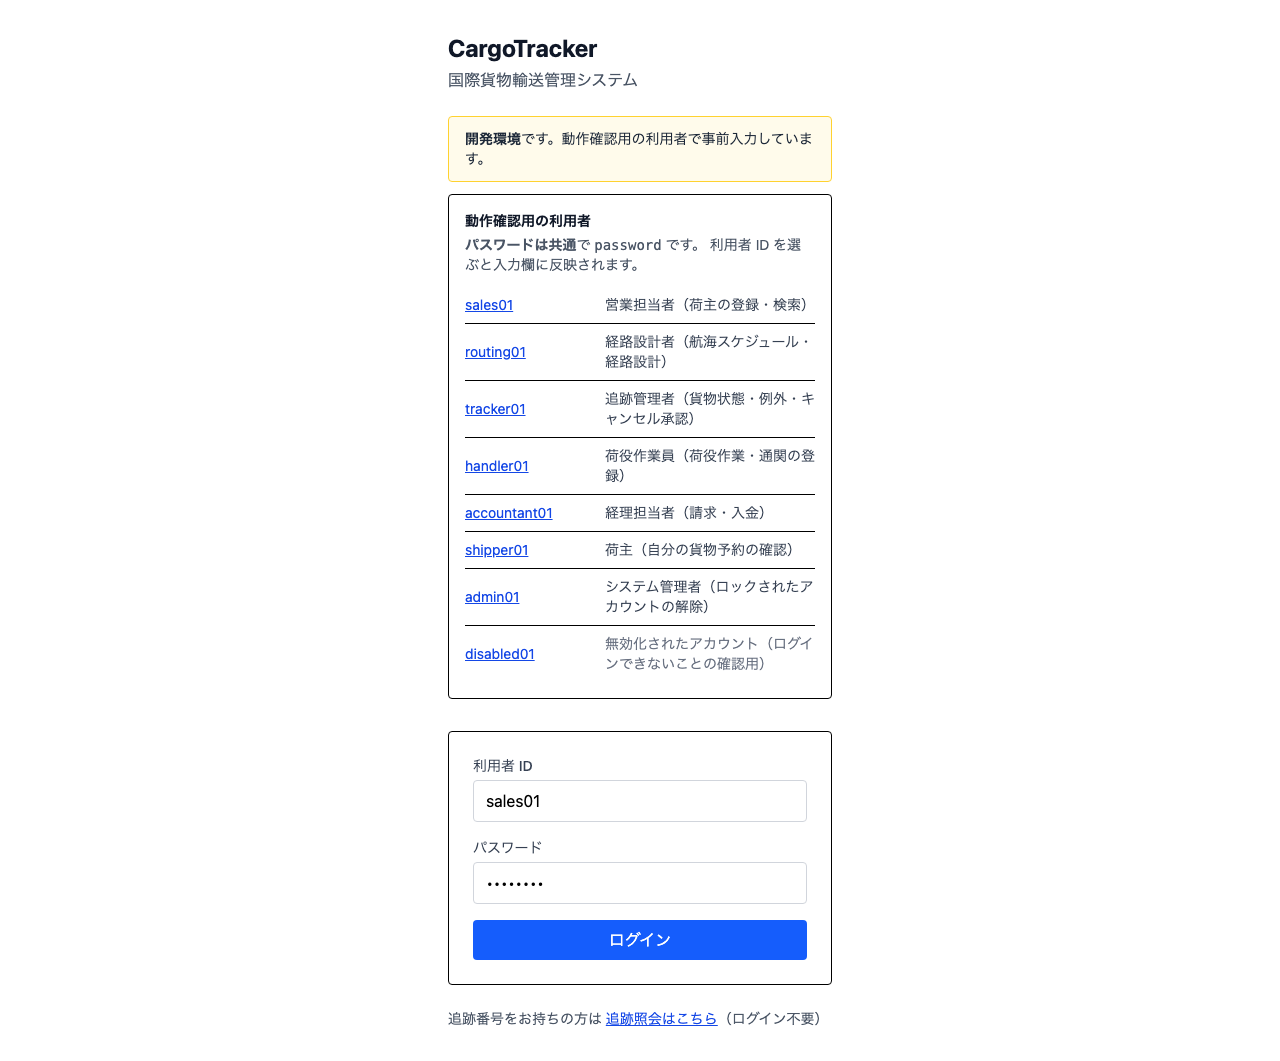
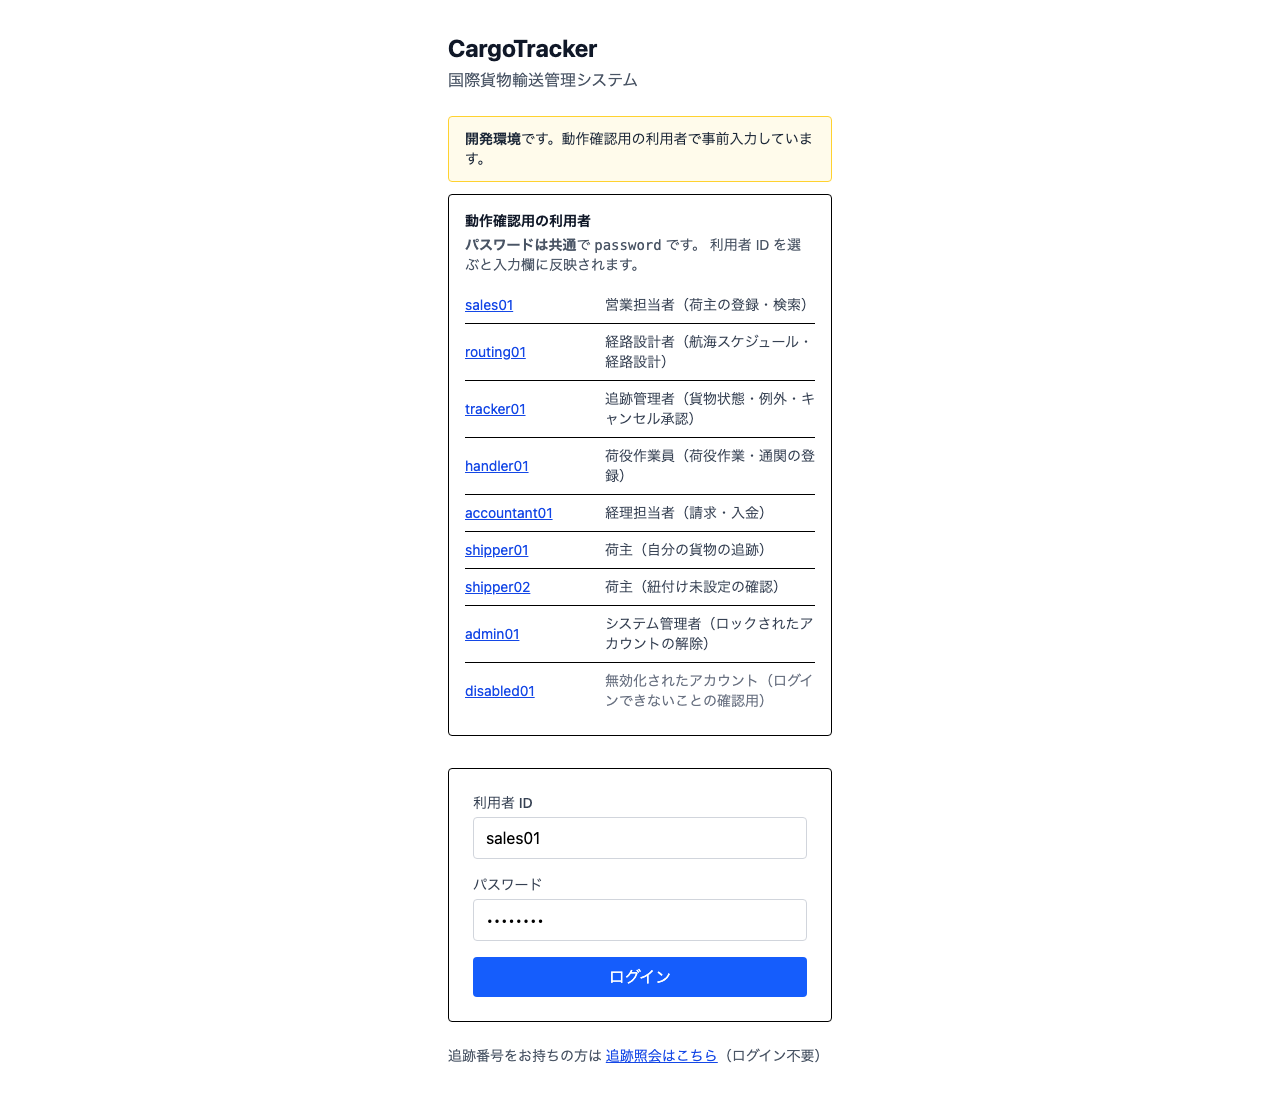
docs(manual): 荷主ポータルの手順とキャプチャを追加

Changed region(s): [[0.3438, 0.0311, 0.6562, 0.6532], [0.3438, 0.7154, 0.6562, 0.9953]]

diff --git a/apps/frontend/e2e/manual/manual-screenshots.spec.ts b/apps/frontend/e2e/manual/manual-screenshots.spec.ts
@@ -382,6 +382,53 @@ test('09-open-exceptions（未解決の例外一覧）', async ({ page }) => {
   await page.screenshot({ path: `${ASSETS}/09-open-exceptions.png`, fullPage: true })
 })
 
+test('14-shipper-dashboard（荷主ダッシュボード）', async ({ page }) => {
+  await login(page, 'shipper01')
+  await expect(page.getByRole('heading', { name: '荷主ダッシュボード' })).toBeVisible()
+  await expect(page.getByRole('link', { name: '自分の貨物を見る' })).toBeVisible()
+
+  await page.screenshot({ path: `${ASSETS}/14-shipper-dashboard.png`, fullPage: true })
+})
+
+test('14-shipper-tracking-list（自分の貨物一覧）', async ({ page }) => {
+  await login(page, 'shipper01')
+  await page.goto('/shipper/tracking')
+  await expect(page.getByRole('heading', { name: '自分の貨物' })).toBeVisible()
+  await expect(page.getByRole('link', { name: 'TRK-20260823-0001' })).toBeVisible()
+
+  await page.screenshot({ path: `${ASSETS}/14-shipper-tracking-list.png`, fullPage: true })
+})
+
+test('14-shipper-tracking-detail（自分の貨物詳細）', async ({ page }) => {
+  await login(page, 'shipper01')
+  await page.goto('/shipper/tracking/TRK-20260823-0001')
+  await expect(page.getByRole('heading', { name: 'TRK-20260823-0001' })).toBeVisible()
+  await expect(page.getByRole('heading', { name: 'これまでの経過' })).toBeVisible()
+
+  await page.screenshot({ path: `${ASSETS}/14-shipper-tracking-detail.png`, fullPage: true })
+})
+
+test('14-shipper-unlinked（荷主との紐付けなし）', async ({ page }) => {
+  await login(page, 'shipper02')
+  await page.goto('/shipper/tracking')
+  await expect(page.getByText('荷主との紐付けがありません')).toBeVisible()
+  await expect(page.getByText(/営業担当またはシステム管理者/)).toBeVisible()
+
+  await page.screenshot({ path: `${ASSETS}/14-shipper-unlinked.png`, fullPage: true })
+})
+
+test('14-shipper-timeout-warning（無操作タイムアウト警告）', async ({ page }) => {
+  await page.clock.install()
+  await login(page, 'shipper01')
+  await page.goto('/shipper/tracking')
+  await expect(page.getByRole('heading', { name: '自分の貨物' })).toBeVisible()
+
+  await page.clock.fastForward(15 * 60 * 1000)
+  await expect(page.getByRole('alert')).toContainText('まもなく自動ログアウトします')
+
+  await page.screenshot({ path: `${ASSETS}/14-shipper-timeout-warning.png`, fullPage: true })
+})
+
 test('10-customs-new（通関申告の登録）', async ({ page }) => {
   await login(page, 'handler01')
   await page.getByRole('link', { name: '通関管理' }).click()

diff --git a/apps/frontend/src/mocks/handlers/tracking.ts b/apps/frontend/src/mocks/handlers/tracking.ts
@@ -387,20 +387,38 @@ export function forceLookupThrottle() {
   lookupCount = LOOKUP_LIMIT_PER_WINDOW;
 }
 
+function currentUserId(request: Request) {
+  const authorization = request.headers.get("authorization") ?? "";
+  if (!authorization.startsWith("Bearer mock-token-")) {
+    return "shipper01";
+  }
+  return authorization.slice("Bearer mock-token-".length);
+}
+
 export const trackingHandlers = [
-  http.get(API_PATHS.shipperTracking, () =>
-    HttpResponse.json({
+  http.get(API_PATHS.shipperTracking, ({ request }) => {
+    const userId = currentUserId(request);
+    if (userId !== "shipper01") {
+      return HttpResponse.json({
+        linked: false,
+        contactMessage: "営業担当またはシステム管理者へ紐付けを依頼してください。",
+        cargos: [],
+      });
+    }
+
+    return HttpResponse.json({
       linked: true,
       contactMessage: null,
       cargos: trackings
-        .filter((tracking) => tracking.shipperLinkId === "shipper01")
+        .filter((tracking) => tracking.shipperLinkId === userId)
         .map(shipperSummaryView),
-    }),
-  ),
+    });
+  }),
 
-  http.get(`${API_PATHS.shipperTracking}/:trackingNumber`, ({ params }) => {
+  http.get(`${API_PATHS.shipperTracking}/:trackingNumber`, ({ params, request }) => {
+    const userId = currentUserId(request);
     const tracking = find(String(params.trackingNumber));
-    if (tracking === undefined || tracking.shipperLinkId !== "shipper01") {
+    if (tracking === undefined || tracking.shipperLinkId !== userId) {
       return HttpResponse.json(
         { message: "自社の貨物として確認できません" },
         { status: 404 },

diff --git a/apps/frontend/src/config/navigation.ts b/apps/frontend/src/config/navigation.ts
@@ -34,8 +34,8 @@ export const NAVIGATION: NavigationItem[] = [
     roles: ["ROLE_SALES"],
     available: true,
   },
-  // 予約管理は ROLE_SHIPPER には開かない（ADR-008）。利用者と荷主を結ぶキーが無く
-  // 「自分の予約だけ」に絞り込めなかったため、開くと全荷主の予約が見える。
+  // 予約管理は ROLE_SHIPPER には開かない（ADR-008）。US33 で利用者と荷主は紐付いたが、
+  // 予約業務そのものを荷主へ開くストーリーではないため、追跡専用画面だけを開く。
   // **US18 では広げ直さない**（US18 は追跡番号だけで照会するため、紐付けのキーが要らない。
   // ADR-024 決定 10）。US33 の自社貨物追跡は専用画面で開く
   // 経路設計者にも開く。引き渡された予約へ行けないと、依頼に気づいても仕事が進まない。

diff --git a/apps/frontend/src/App.tsx b/apps/frontend/src/App.tsx
@@ -69,7 +69,7 @@ export default function App() {
         <Route path="/booking/shippers/new" element={<ShipperRegisterPage />} />
         <Route path="/booking/shippers/:id/edit" element={<ShipperEditPage />} />
         {/* 貨物予約も営業担当者の業務。ROLE_SHIPPER には開かない（ADR-008）。
-            利用者と荷主を結ぶキーが無く「自分の予約だけ」に絞り込めないため */}
+            US33 で開くのは自社貨物の追跡であり、予約登録・参照ではないため */}
         <Route path="/booking/new" element={<BookingRegisterPage />} />
         {/* 輸送見積（US01）。**営業担当者だけ**——荷主に「いくらで何日か」を
             答えるのは営業の仕事である */}

diff --git a/apps/frontend/src/config/demo-login.ts b/apps/frontend/src/config/demo-login.ts
@@ -47,7 +47,13 @@ export const DEMO_ACCOUNTS: DemoAccount[] = [
   },
   {
     userId: 'shipper01',
-    description: '荷主（自分の貨物予約の確認）',
+    description: '荷主（自分の貨物の追跡）',
+    roles: ['ROLE_SHIPPER'],
+    canLogIn: true,
+  },
+  {
+    userId: 'shipper02',
+    description: '荷主（紐付け未設定の確認）',
     roles: ['ROLE_SHIPPER'],
     canLogIn: true,
   },

diff --git a/apps/frontend/src/mocks/users.ts b/apps/frontend/src/mocks/users.ts
@@ -20,6 +20,7 @@ const DISPLAY_NAMES: Record<string, string> = {
   handler01: '鈴木一郎',
   accountant01: '高橋美咲',
   shipper01: '伊藤商事',
+  shipper02: '未紐付け 荷主',
   admin01: '管理 太郎',
   disabled01: '退職済 太郎',
 }

diff --git a/docs/manual/14-荷主ポータル.md b/docs/manual/14-荷主ポータル.md
@@ -1,0 +1,137 @@
+---
+title: 荷主ポータル
+description: 荷主がログインして、自社の貨物だけを一覧・詳細で追跡する。
+---
+
+# 14 荷主ポータル
+
+荷主の担当者が、ログインして自社の貨物だけを確認する画面です。追跡番号を 1 件ずつ入力する公開追跡とは別に、紐付けられた荷主の貨物だけが一覧に出ます。
+
+本章は [01 業務フロー](01-業務フロー.md#steps) の**工程 11.5（自社貨物をまとめて確認する）**に対応します。
+
+## 画面の開き方
+
+ログイン後のダッシュボードで「自分の貨物を見る」をクリックします。サイドバーの「自分の貨物」からも開けます（URL: `/shipper/tracking`）。
+
+| 節 | 内容 |
+| :--- | :--- |
+| [14.1](#shipper-dashboard) | 荷主ダッシュボードから開く |
+| [14.2](#tracking-list) | 自分の貨物を一覧で見る |
+| [14.3](#tracking-detail) | 貨物の詳細を見る |
+| [14.4](#unlinked) | 荷主との紐付けが無いとき |
+| [14.5](#timeout) | 無操作タイムアウト |
+
+## 14.1 荷主ダッシュボードから開く {#shipper-dashboard}
+
+### この画面でできること
+
+荷主としてログインし、自分の貨物一覧へ進みます。
+
+### 画面の説明
+
+![荷主ダッシュボード](assets/14-shipper-dashboard.png)
+
+| # | 項目 | 説明 |
+|---|------|------|
+| ① | 「自分の貨物を見る」 | 自社貨物の一覧へ移動します |
+| ② | 「自分の貨物」 | どの画面からでも一覧へ戻れるメニューです |
+| ③ | 利用者名と担当 | ログインしている荷主担当者を確認します |
+
+### 操作手順
+
+1. 荷主の利用者 ID でログインします
+2. ダッシュボードの「自分の貨物を見る」をクリックします
+
+## 14.2 自分の貨物を一覧で見る {#tracking-list}
+
+### この画面でできること
+
+自社の貨物だけを一覧で確認します。他社の貨物は、追跡番号を知っていてもこの一覧には出ません。
+
+### 画面の説明
+
+![自分の貨物一覧](assets/14-shipper-tracking-list.png)
+
+| 列 | 説明 |
+| :--- | :--- |
+| 追跡番号 | 詳細画面へのリンクです |
+| 状態 | 現在の輸送状態です |
+| 現在地 | いま貨物がある港です |
+| 到着予定 | 到着の見込みです。決まっていないときは「未定」と出ます |
+| 例外 | 遅延・破損・紛失などの問題があるかを示します |
+
+### 操作手順
+
+1. サイドバーの「自分の貨物」をクリックします
+2. 一覧で状態・現在地・到着予定を確認します
+3. 詳しく見たい追跡番号をクリックします
+
+## 14.3 貨物の詳細を見る {#tracking-detail}
+
+### この画面でできること
+
+自社貨物の現在の状態と、これまでの経過を確認します。
+
+### 画面の説明
+
+![自分の貨物詳細](assets/14-shipper-tracking-detail.png)
+
+| 項目 | 説明 |
+| :--- | :--- |
+| 現在の状態 | 受領待ち・輸送中・引取済みなど、いまの状態です |
+| 現在地 | いま貨物がある港です |
+| 到着予定日 | 到着の見込みです |
+| これまでの経過 | 状態が変わった日時と場所を並べます |
+
+### 操作手順
+
+1. 一覧で追跡番号をクリックします
+2. 状態・現在地・到着予定日を確認します
+3. 「自分の貨物に戻る」をクリックすると一覧に戻ります
+
+> **他社の追跡番号を直接開いても詳細は表示されません。** 自社の貨物として確認できない番号は「自社の貨物として確認できません」と表示されます。
+
+## 14.4 荷主との紐付けが無いとき {#unlinked}
+
+### この画面でできること
+
+ログインはできるが、利用者 ID と荷主がまだ紐付いていない状態を確認します。
+
+### 画面の説明
+
+![荷主との紐付けなし](assets/14-shipper-unlinked.png)
+
+| 項目 | 説明 |
+| :--- | :--- |
+| 荷主との紐付けがありません | 利用者 ID と荷主の設定がまだ終わっていない状態です |
+| 問い合わせ案内 | 営業担当またはシステム管理者へ依頼する内容です |
+
+### 操作手順
+
+1. 表示された案内を確認します
+2. 営業担当またはシステム管理者へ、利用者 ID と荷主の紐付けを依頼します
+
+> **空の一覧ではありません。** 自社貨物が無い場合と、利用者 ID の設定が無い場合は別の状態です。
+
+## 14.5 無操作タイムアウト {#timeout}
+
+### この画面でできること
+
+共用端末で席を離れたとき、ログイン状態が残り続けないようにします。
+
+### 画面の説明
+
+![無操作タイムアウト警告](assets/14-shipper-timeout-warning.png)
+
+| 項目 | 説明 |
+| :--- | :--- |
+| 警告 | 15 分間操作がないと表示されます |
+| 「操作を続ける」 | ログイン状態を続けます |
+| 自動ログアウト | 20 分間操作がないとログイン画面へ戻ります |
+
+### 操作手順
+
+1. 続けて使う場合は「操作を続ける」をクリックします
+2. 作業を終える場合は右上の「ログアウト」をクリックします
+
+> **入力中の内容は保存されません。** 警告が出たら、続けるかログアウトするかをその場で判断してください。

diff --git a/docs/manual/01-業務フロー.md b/docs/manual/01-業務フロー.md
@@ -102,6 +102,7 @@ stop
 | 10 | **貨物の状態を更新する** | 追跡管理者 | 貨物状態管理 → [9.2 状態を手で反映する](09-貨物追跡.md#manual-update)・[9.3 例外を起票する・解決する](09-貨物追跡.md#exceptions) | **今回から使えます** |
 | 10.5 | **例外に気づく** | 追跡管理者・荷役作業員・営業担当者 | 未解決の例外 → [9.4 未解決の例外を一覧で見る](09-貨物追跡.md#open-exceptions) | **今回から使えます** |
 | 11 | **貨物の状況を確認する** | 荷主・荷受人 | 貨物追跡 → [9.1 追跡番号で照会する](09-貨物追跡.md#lookup)（**ログイン不要**） | **今回から使えます** |
+| 11.5 | **自社貨物をまとめて確認する** | 荷主 | 自分の貨物 → [14.2 自分の貨物を一覧で見る](14-荷主ポータル.md#tracking-list) | **今回から使えます** |
 | 12 | **料金を計算して請求書を発行する** | 経理担当者 | 精算管理 → [12.1 料金を算出する](12-精算管理.md#calculate)・[12.2 請求書を確認する](12-精算管理.md#invoice) | **今回から使えます** |
 | — | ロックされたアカウントを解除する | システム管理者 | [7.1 ロックされたアカウントを解除する](07-アカウント管理.md#unlock) | 使えます |
 | — | 作業を終える | 全担当 | [2.2 ログアウトする](02-ログイン.md#logout) | 使えます |
@@ -132,7 +133,7 @@ stop
 | 荷役作業員 | 8・9（現場で貨物を扱い、記録する） |
 | 追跡管理者 | 9・10（貨物の状態を管理し、例外に対応する） |
 | 経理担当者 | 12（料金の計算と入金の確認） |
-| 荷主 | 依頼・承認・状況確認 |
+| 荷主 | 依頼・承認・状況確認。ログインすると自社貨物を一覧で確認できます |
 | 荷受人 | 11（追跡番号での状況確認のみ。ログインは不要です） |
 
 ---

diff --git a/docs/manual/00-はじめに.md b/docs/manual/00-はじめに.md
@@ -40,10 +40,12 @@ description: マニュアルの読み方・表記規約・動作環境。
 | 荷役作業員 | 荷役管理・通関管理 |
 | 追跡管理者 | 貨物状態管理・キャンセル承認・荷役管理・通関管理 |
 | 経理担当者 | 精算管理 |
-| 荷主 | 貨物予約（自分の予約の確認） |
+| 荷主 | 自分の貨物・貨物追跡 |
 
-> 現在のリリースで使えるのは、ログインと荷主管理です。他の画面は順次追加されます。
+> 表示される画面は担当によって異なります。必要な画面が見えない場合は、管理者に担当の設定を確認してください。
 
 ## 追跡番号をお持ちの方へ
 
-貨物の追跡照会はログインなしで利用できます。トップページの追跡番号欄をお使いください（**次のリリースで利用できるようになります**。それまでは、追跡番号を持っていても照会できません。営業担当者にお問い合わせください）。
+貨物の追跡照会はログインなしで利用できます。トップページの追跡番号欄をお使いください。
+
+荷主の担当者としてログインすると、メニュー「自分の貨物」から自社の貨物だけを一覧で確認できます。利用者 ID と荷主の紐付けが無い場合は、問い合わせ先が表示されます。
